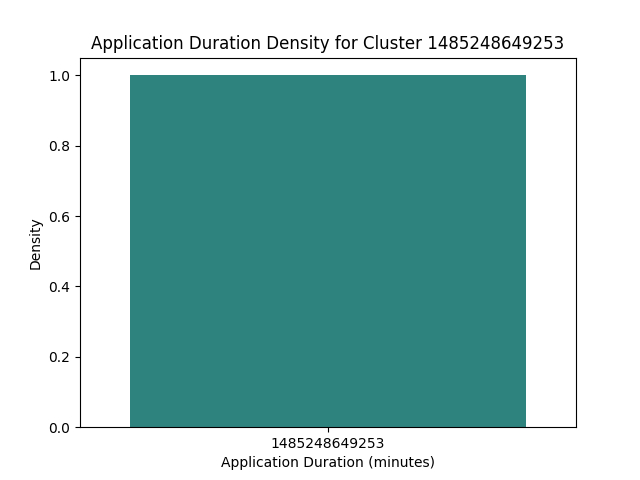
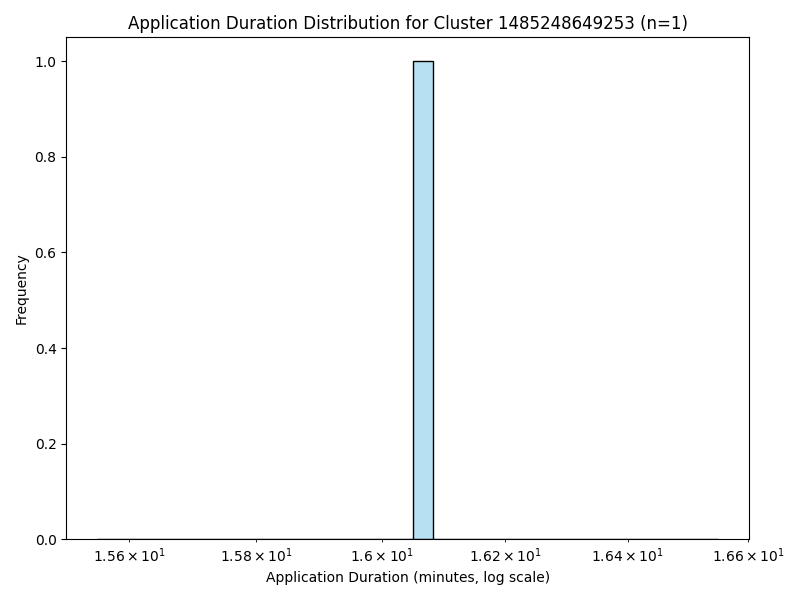
finished problem2

diff --git a/problem2.py b/problem2.py
@@ -20,22 +20,25 @@ import re
 import matplotlib.pyplot as plt
 import seaborn as sns
 
-def create_spark_session():
+
+master_url = sys.argv[1]
+
+def create_spark_session(master_url):
     """Create a Spark session"""
 
     spark = (
         SparkSession.builder
-        .appName("Problem1")
-        .getOrCreate()
+        .appName("Problem2")
+        .master(master_url).getOrCreate()
     )
 
     print("✅ Spark session created successfully for Problem 2")
     return spark
 
 
-spark = create_spark_session()
+spark = create_spark_session(master_url)
 
-path = "data/sample/application_1485248649253_0052"
+path = "data/raw"
 
 def problem2(path=path):
     
@@ -91,7 +94,7 @@ def problem2(path=path):
 
     df_cluster.toPandas().to_csv('problem2_cluster_summary.csv', index=False)
 
-    largest_cluster_id = df_cluster.toPandas().iloc[0]['cluster_id']
+    largest_cluster_id = df_cluster.orderBy(col("num_applications").desc()).first()["cluster_id"]
 
     print("✅Problem 2, Step 5: Aggregated cluster statistics")
 
@@ -139,16 +142,22 @@ def problem2(path=path):
 
 
 
-    density_df = df_time.select("application_id", "start_time", "end_time").where(col("cluster_id") == largest_cluster_id)
-
-
+    density_df = df_time.filter(col("cluster_id") == largest_cluster_id)
     density_pd = density_df.toPandas()
     density_pd['duration'] = (density_pd['end_time'] - density_pd['start_time']).dt.total_seconds() / 60
-    sns.kdeplot(density_pd['duration'], fill=True, color="skyblue", alpha=0.5)
-    plt.xlabel("Application Duration (minutes)")
-    plt.ylabel("Density")
-    plt.title(f"Application Duration Density for Cluster {largest_cluster_id}")
+
+
+
+    plt.clf()
+    plt.figure(figsize=(8, 6))
+    sns.histplot(density_pd["duration"], bins=30, kde=True, color="skyblue", alpha=0.6)
+    plt.xscale("log")
+    plt.xlabel("Application Duration (minutes, log scale)")
+    plt.ylabel("Frequency")
+    plt.title(f"Application Duration Distribution for Cluster {largest_cluster_id} (n={len(density_pd)})")
+    plt.tight_layout()
     plt.savefig("problem2_density_plot.png")
+
     print("✅Problem 2, Step 8: Density Plot")
 
     
@@ -162,16 +171,3 @@ problem2()
     
 
 
-
-
-
-
-
-
-
-
-
-
-
-#
-#

diff --git a/problem1.py b/problem1.py
@@ -13,22 +13,24 @@ from pyspark.sql.functions import (
 import pandas as pd
 import re
 
-def create_spark_session():
+master_url = sys.argv[1]
+
+def create_spark_session(master_url):
     """Create a Spark session"""
 
     spark = (
         SparkSession.builder
         .appName("Problem1")
-        .getOrCreate()
+        .master(master_url).getOrCreate()
     )
 
     print("✅ Spark session created successfully for Problem 1")
     return spark
 
 
-spark = create_spark_session()
+spark = create_spark_session(master_url)
 
-path = "data/sample/application_1485248649253_0052"
+path = "data/raw"
 
 def problem1(path=path):
     
